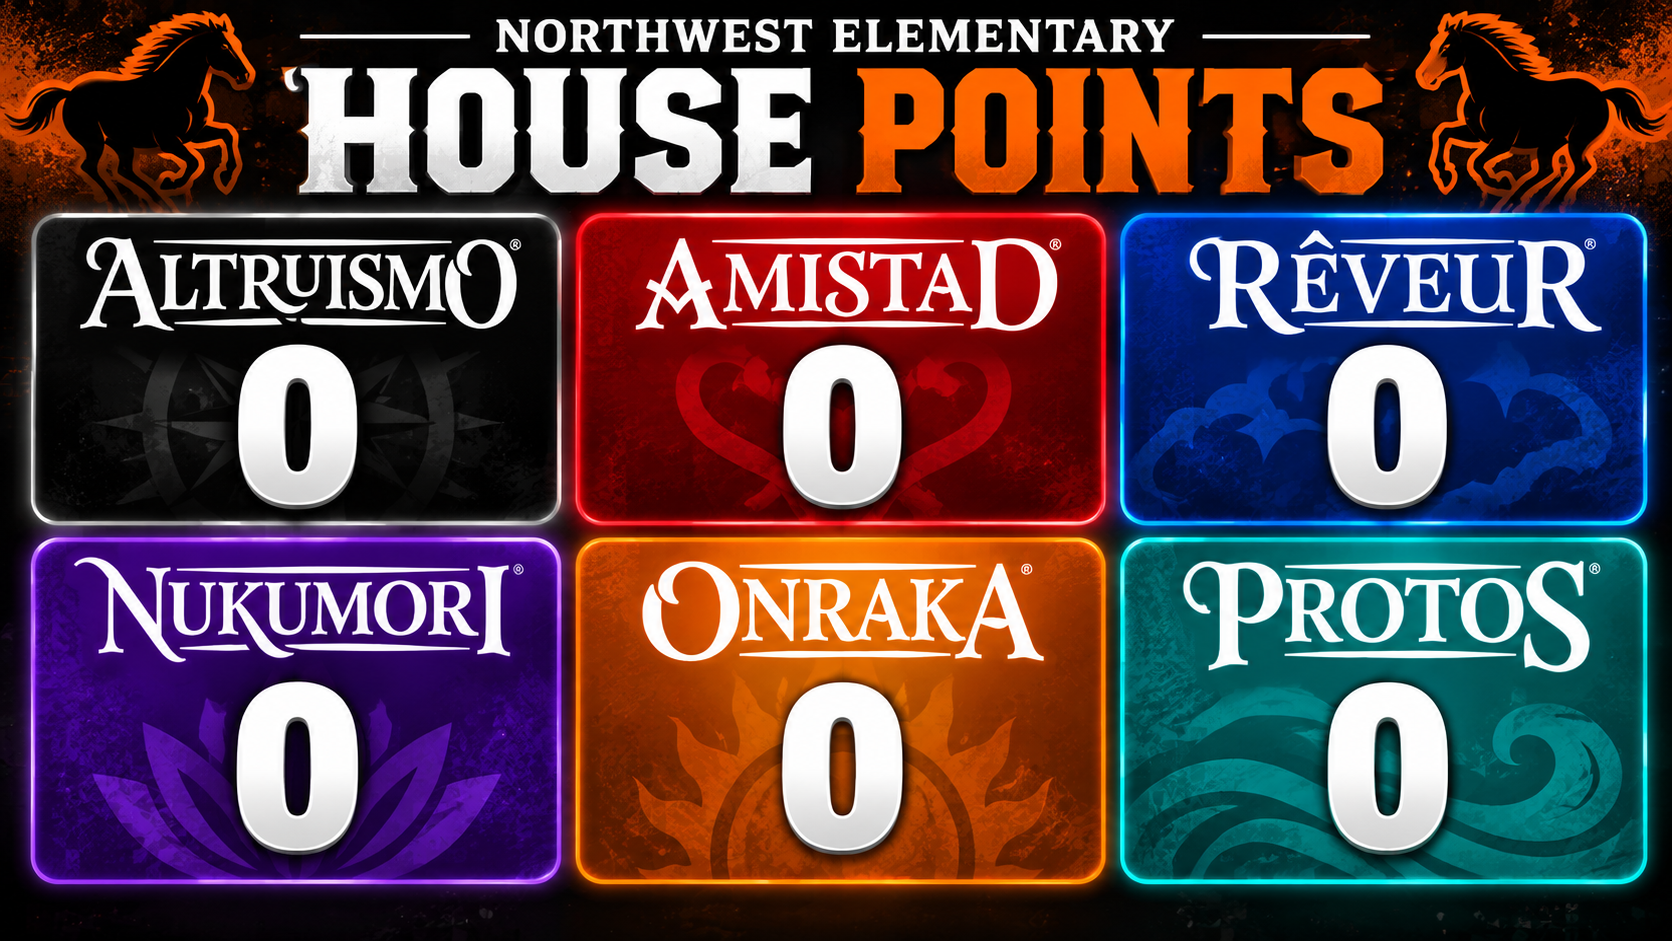
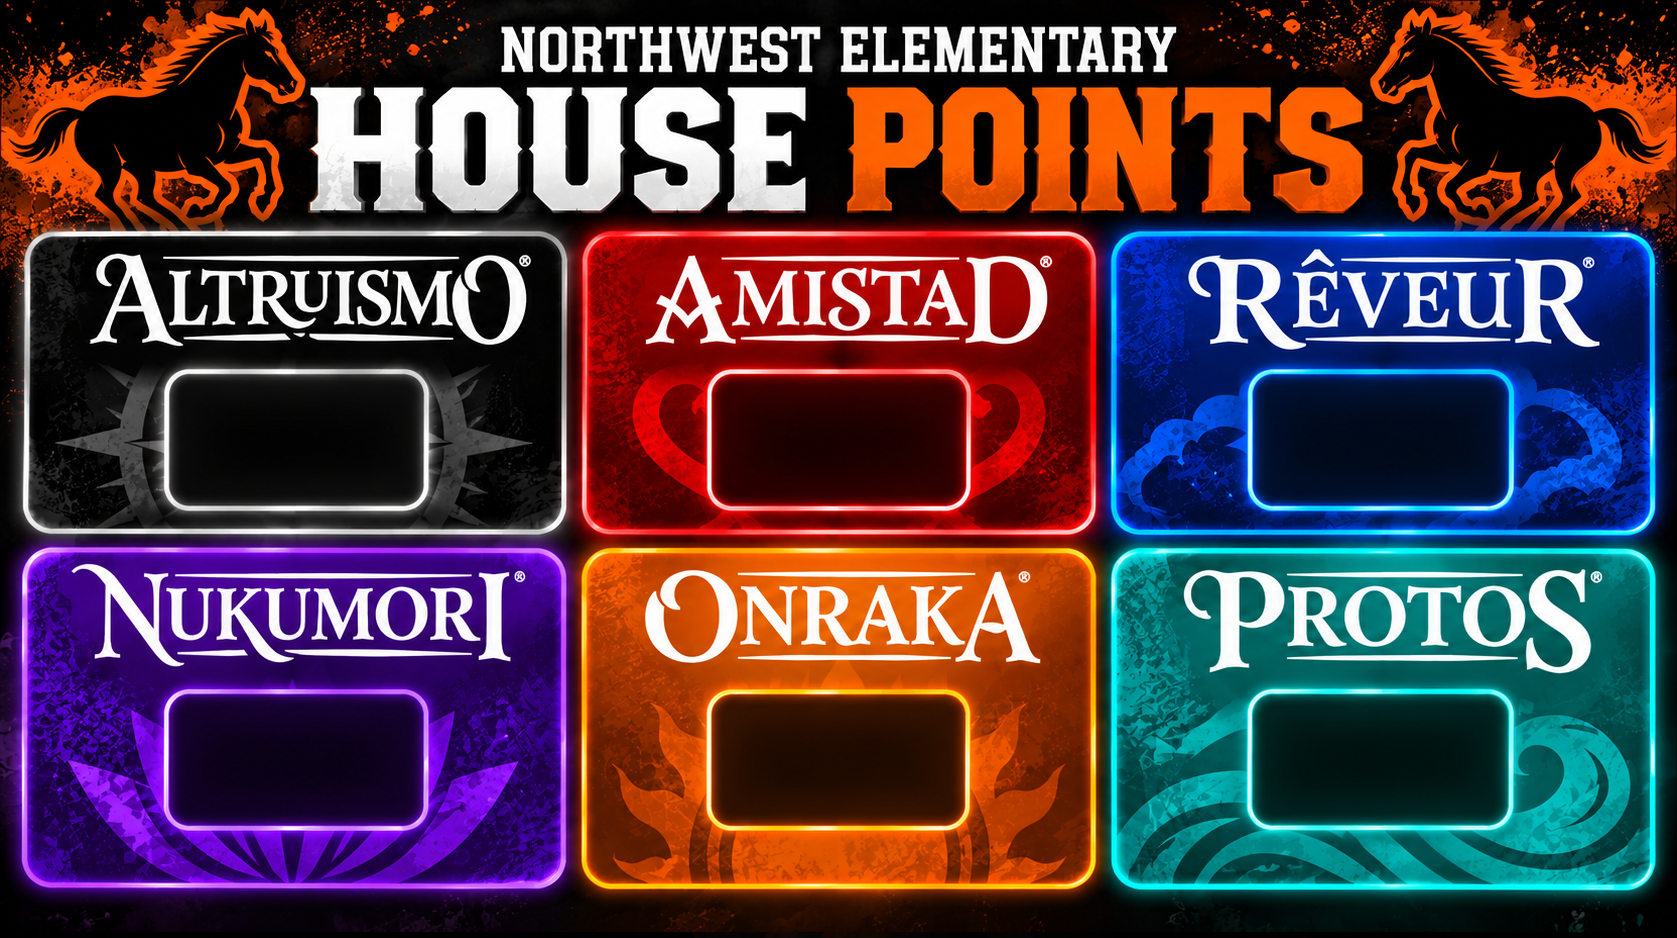
Add files via upload

diff --git a/index.html b/index.html
@@ -8,64 +8,39 @@
 html,body{margin:0;width:100%;height:100%;overflow:hidden;background:#050505;font-family:Arial,Helvetica,sans-serif}
 #stage{position:relative;width:100vw;height:100vh;background:#050505 url('house-scoreboard-background.png') center/contain no-repeat}
 .score{
- position:absolute; transform:translate(-50%,-50%);
- font-weight:1000; font-size:clamp(34px,5.8vw,92px); line-height:1;
- color:white; text-shadow:0 4px 0 rgba(0,0,0,.85),0 0 14px rgba(255,255,255,.55);
+ position:absolute;transform:translate(-50%,-50%);
+ width:17%;text-align:center;
+ font-weight:1000;font-size:clamp(42px,6.5vw,110px);line-height:1;
+ color:#fff;text-shadow:0 5px 0 rgba(0,0,0,.85),0 0 18px rgba(255,255,255,.45);
  font-variant-numeric:tabular-nums;
 }
-/* Centers of the six large numerals in the approved 1536x1024 artwork */
-#altruismo{left:23.2%;top:43.5%}
-#amistad{left:50.0%;top:43.5%}
-#reveur{left:76.7%;top:43.5%}
-#nukumori{left:23.2%;top:75.0%}
-#onraka{left:50.0%;top:75.0%}
-#protos{left:76.7%;top:75.0%}
-#status{
- position:absolute;right:1.2%;bottom:.8%;font-size:clamp(9px,.8vw,14px);
- color:rgba(255,255,255,.7);background:rgba(0,0,0,.55);padding:.35em .65em;border-radius:999px
-}
+#altruismo{left:18.8%;top:47.3%}
+#amistad{left:50.0%;top:47.3%}
+#reveur{left:81.2%;top:47.3%}
+#nukumori{left:18.8%;top:81.2%}
+#onraka{left:50.0%;top:81.2%}
+#protos{left:81.2%;top:81.2%}
+#status{position:absolute;right:1%;bottom:.6%;font-size:clamp(9px,.75vw,13px);color:rgba(255,255,255,.68);background:rgba(0,0,0,.5);padding:.35em .65em;border-radius:999px}
 </style>
 </head>
 <body>
 <div id="stage">
- <div class="score" id="altruismo">0</div>
- <div class="score" id="amistad">0</div>
- <div class="score" id="reveur">0</div>
- <div class="score" id="nukumori">0</div>
- <div class="score" id="onraka">0</div>
- <div class="score" id="protos">0</div>
- <div id="status">Connecting…</div>
+<div class="score" id="altruismo">0</div><div class="score" id="amistad">0</div><div class="score" id="reveur">0</div>
+<div class="score" id="nukumori">0</div><div class="score" id="onraka">0</div><div class="score" id="protos">0</div>
+<div id="status">Connecting…</div>
 </div>
 <script>
-const CSV_URL = 'https://docs.google.com/spreadsheets/d/e/2PACX-1vTB0LVYIA07xj3L7UQj0hUZlinTTRbNGDS3VNo1gaDQwDWp3KaNEAbq3HWuyyxXDGgCgUDvNwAHPFf0/pub?gid=0&single=true&output=csv';
-const ids = {
-  "altruismo":"altruismo","amistad":"amistad","rêveur":"reveur","reveur":"reveur",
-  "nukumori":"nukumori","onraka":"onraka","protos":"protos"
-};
-function parseCSV(text) {
-  return text.trim().split(/\r?\n/).slice(1).map(line => {
-    const m=line.match(/^\s*"?([^",]+)"?\s*,\s*"?([^"]*)"?\s*$/);
-    return m ? [m[1].trim(),m[2].trim()] : null;
-  }).filter(Boolean);
+const CSV_URL='https://docs.google.com/spreadsheets/d/e/2PACX-1vTB0LVYIA07xj3L7UQj0hUZlinTTRbNGDS3VNo1gaDQwDWp3KaNEAbq3HWuyyxXDGgCgUDvNwAHPFf0/pub?gid=0&single=true&output=csv';
+const ids={"altruismo":"altruismo","amistad":"amistad","rêveur":"reveur","reveur":"reveur","nukumori":"nukumori","onraka":"onraka","protos":"protos"};
+function parseCSV(t){return t.trim().split(/\r?\n/).slice(1).map(l=>{let i=l.indexOf(',');if(i<0)return null;return [l.slice(0,i).replace(/^"|"$/g,'').trim(),l.slice(i+1).replace(/^"|"$/g,'').trim()]}).filter(Boolean)}
+async function refresh(){
+ try{
+  const r=await fetch(CSV_URL+"&_="+Date.now(),{cache:"no-store"});
+  if(!r.ok)throw new Error("HTTP "+r.status);
+  parseCSV(await r.text()).forEach(([h,p])=>{const id=ids[h.toLowerCase()];if(id)document.getElementById(id).textContent=p||"0"});
+  document.getElementById("status").textContent="LIVE • "+new Date().toLocaleTimeString([],{hour:'numeric',minute:'2-digit'});
+ }catch(e){document.getElementById("status").textContent="Waiting for House Points…"}
 }
-async function refresh() {
- try {
-   const r=await fetch(CSV_URL + "&_=" + Date.now(), {cache:"no-store"});
-   if(!r.ok) throw new Error("HTTP "+r.status);
-   const rows=parseCSV(await r.text());
-   rows.forEach(([house,points])=>{
-      const key=house.toLowerCase();
-      const id=ids[key];
-      if(id) document.getElementById(id).textContent = points || "0";
-   });
-   document.getElementById("status").textContent="LIVE • updated "+new Date().toLocaleTimeString([],{hour:'numeric',minute:'2-digit'});
- } catch(e) {
-   document.getElementById("status").textContent="Waiting for House Points…";
-   console.error(e);
- }
-}
-refresh();
-setInterval(refresh,15000);
+refresh();setInterval(refresh,15000);
 </script>
-</body>
-</html>
+</body></html>
